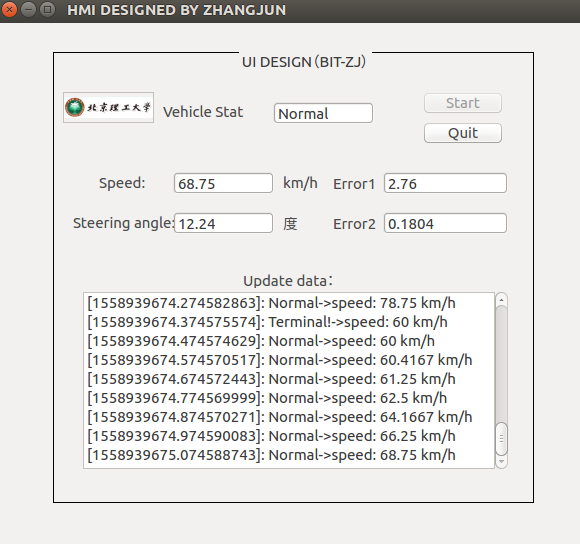
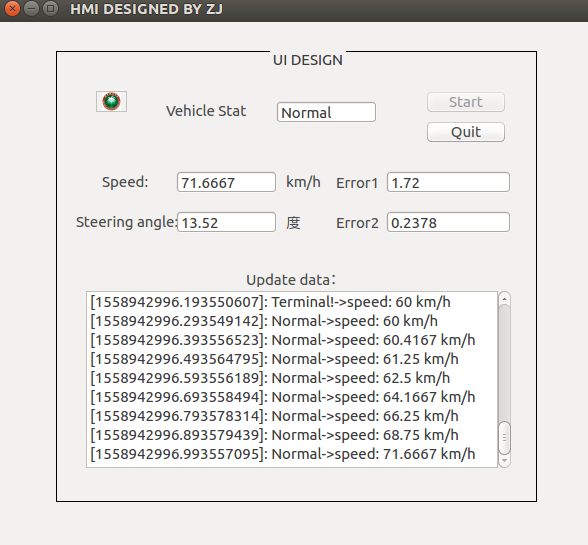
update

diff --git a/show_msg/src/main_window.cpp b/show_msg/src/main_window.cpp
@@ -11,7 +11,7 @@ using namespace Qt;
 MainWindow::MainWindow(int argc, char** argv, QWidget *parent) : QMainWindow(parent), qnode(argc,argv)
 {
     ui.setupUi(this);
-    this->setWindowTitle(QString::fromLocal8Bit("HMI DESIGNED BY ZHANGJUN"));
+    this->setWindowTitle(QString::fromLocal8Bit("HMI DESIGNED BY ZJ"));
     setWindowIcon(QIcon(":/images/bit.jpeg"));
     ui.view_logging_sub->setModel(qnode.loggingModel_sub());
     QObject::connect(&qnode, SIGNAL(loggingUpdated_sub(QString,float,float,float,double)), this, SLOT(updateLoggingView_sub(QString,float,float,float,double)));
